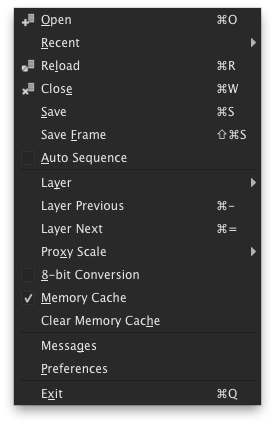
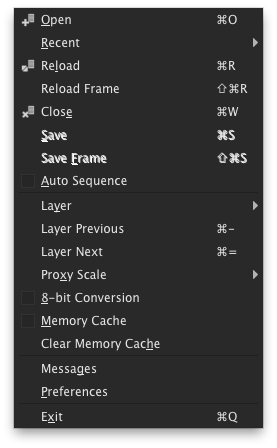
Update documentation

diff --git a/doc/djvViewFileGroup.html b/doc/djvViewFileGroup.html
@@ -125,6 +125,12 @@ memory cache is shown in the information bar.</p>
         <td>Ctrl+R</td>
     </tr>
     <tr>
+        <td></td>
+        <td>Reload Frame</td>
+        <td>Reload the current frame</td>
+        <td>Ctrl+Shift+R</td>
+    </tr>
+    <tr>
         <td><img src="images/djvFileCloseIcon.png"/></td>
         <td>Close</td>
         <td>Close the current file</td>

diff --git a/doc/djvViewPlaybackGroup.html b/doc/djvViewPlaybackGroup.html
@@ -97,6 +97,12 @@
     </tr>
     <tr>
         <td></td>
+        <td>Toggle Playback</td>
+        <td>Toggle playback</td>
+        <td>Space</td>
+    </tr>
+    <tr>
+        <td></td>
         <td>Loop</td>
         <td>Set the playback loop mode</td>
         <td></td>
